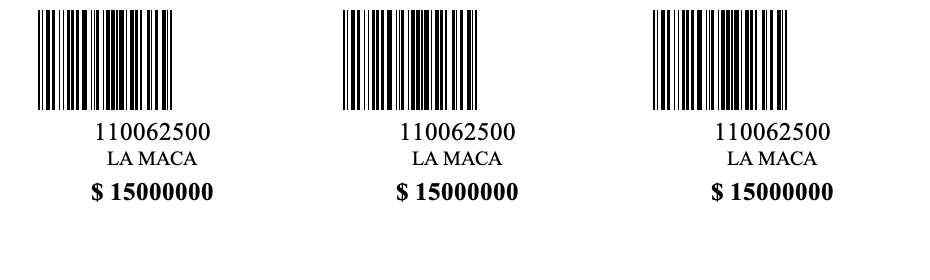
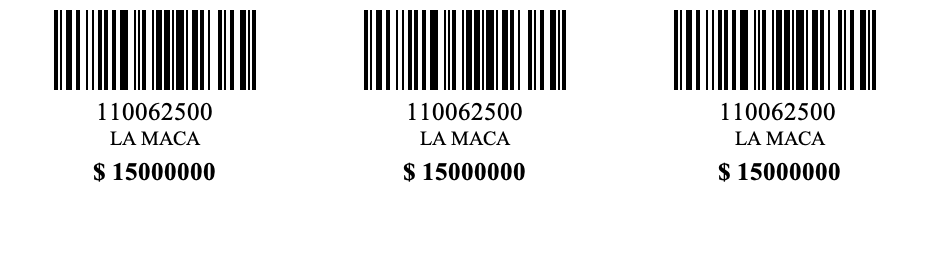
Adding some omages to test in the printer

Changed region(s): [[0.686, 0.0286, 0.9667, 0.7143], [0.343, 0.0286, 0.6237, 0.7143], [0.0312, 0.0286, 0.2806, 0.7143]]

diff --git a/spring-boot/src/main/java/com/example/springboot/Application.java b/spring-boot/src/main/java/com/example/springboot/Application.java
@@ -66,7 +66,7 @@ public class Application {
 				ArrayList<String> lista = ((ArrayList<String>) entrySet.getValue());
 				Barcode barcode = new Barcode();
 				Image img = barcode.encode(EncodingType.CODE128, lista.get(0));
-				img = img.getScaledInstance(200,100,BufferedImage.SCALE_REPLICATE);
+				img = img.getScaledInstance(img.getWidth(null),80,BufferedImage.SCALE_REPLICATE);
 				savePic(img,"PNG","Producto_" + lista.get(0) + ".png", lista.get(0), lista.get(1), lista.get(7));
 			}
 		}
@@ -98,29 +98,29 @@ public class Application {
 			//graphics.drawString(TITLE,(widthImage - fontMetrics.stringWidth(TITLE))/2, fontMetrics.getHeight() + 5);
 
 			graphics.drawImage(image, 5,  10, null);
-			graphics.drawImage(image, 310,  10, null);
-			graphics.drawImage(image, 620,  10, null);
+			graphics.drawImage(image, 315,  10, null);
+			graphics.drawImage(image, 625,  10, null);
 
 			graphics.setFont(fontCode);
 			fontMetrics = graphics.getFontMetrics();
-			graphics.drawString(code,(305 - fontMetrics.stringWidth(code))/2,40 + image.getHeight(null));
-			graphics.drawString(code,305 + (305 - fontMetrics.stringWidth(code))/2,40 + image.getHeight(null));
-			graphics.drawString(code,620 + (305 - fontMetrics.stringWidth(code))/2,40 + image.getHeight(null));
+			graphics.drawString(code,(310 - fontMetrics.stringWidth(code))/2,40 + image.getHeight(null));
+			graphics.drawString(code,310 + (310 - fontMetrics.stringWidth(code))/2,40 + image.getHeight(null));
+			graphics.drawString(code,625 + (305 - fontMetrics.stringWidth(code))/2,40 + image.getHeight(null));
 
 			graphics.setFont(fontDesc);
 			fontMetrics = graphics.getFontMetrics();
 			description = (description.length() < 12 ) ? description :  description.substring(0,12);
-			graphics.drawString(description,(305 - fontMetrics.stringWidth(description))/2,65 + image.getHeight(null));
-			graphics.drawString(description,305 + (305 - fontMetrics.stringWidth(description))/2,65 + image.getHeight(null));
-			graphics.drawString(description,620 + (305 - fontMetrics.stringWidth(description))/2,65 + image.getHeight(null));
+			graphics.drawString(description,(310 - fontMetrics.stringWidth(description))/2,65 + image.getHeight(null));
+			graphics.drawString(description,310 + (310 - fontMetrics.stringWidth(description))/2,65 + image.getHeight(null));
+			graphics.drawString(description,625 + (310 - fontMetrics.stringWidth(description))/2,65 + image.getHeight(null));
 
 
 			graphics.setFont(fontPrice);
 			fontMetrics = graphics.getFontMetrics();
 			price = "$ " + price;
-			graphics.drawString(price,(305 - fontMetrics.stringWidth(price))/2,100 + image.getHeight(null));
-			graphics.drawString(price,305 + (305 - fontMetrics.stringWidth(price))/2,100 + image.getHeight(null));
-			graphics.drawString(price,620 + (305 - fontMetrics.stringWidth(price))/2,100 + image.getHeight(null));
+			graphics.drawString(price,(310 - fontMetrics.stringWidth(price))/2,100 + image.getHeight(null));
+			graphics.drawString(price,310 + (310 - fontMetrics.stringWidth(price))/2,100 + image.getHeight(null));
+			graphics.drawString(price,625 + (310 - fontMetrics.stringWidth(price))/2,100 + image.getHeight(null));
 
 			BufferedImage bufferedImageSmall = new BufferedImage(widthImageSmall,heightImageSmall,BufferedImage.TYPE_INT_BGR);
 			bufferedImageSmall.getGraphics().drawImage(bufferedImage.getScaledInstance(widthImageSmall,heightImageSmall,BufferedImage.SCALE_REPLICATE),0,0,null);
